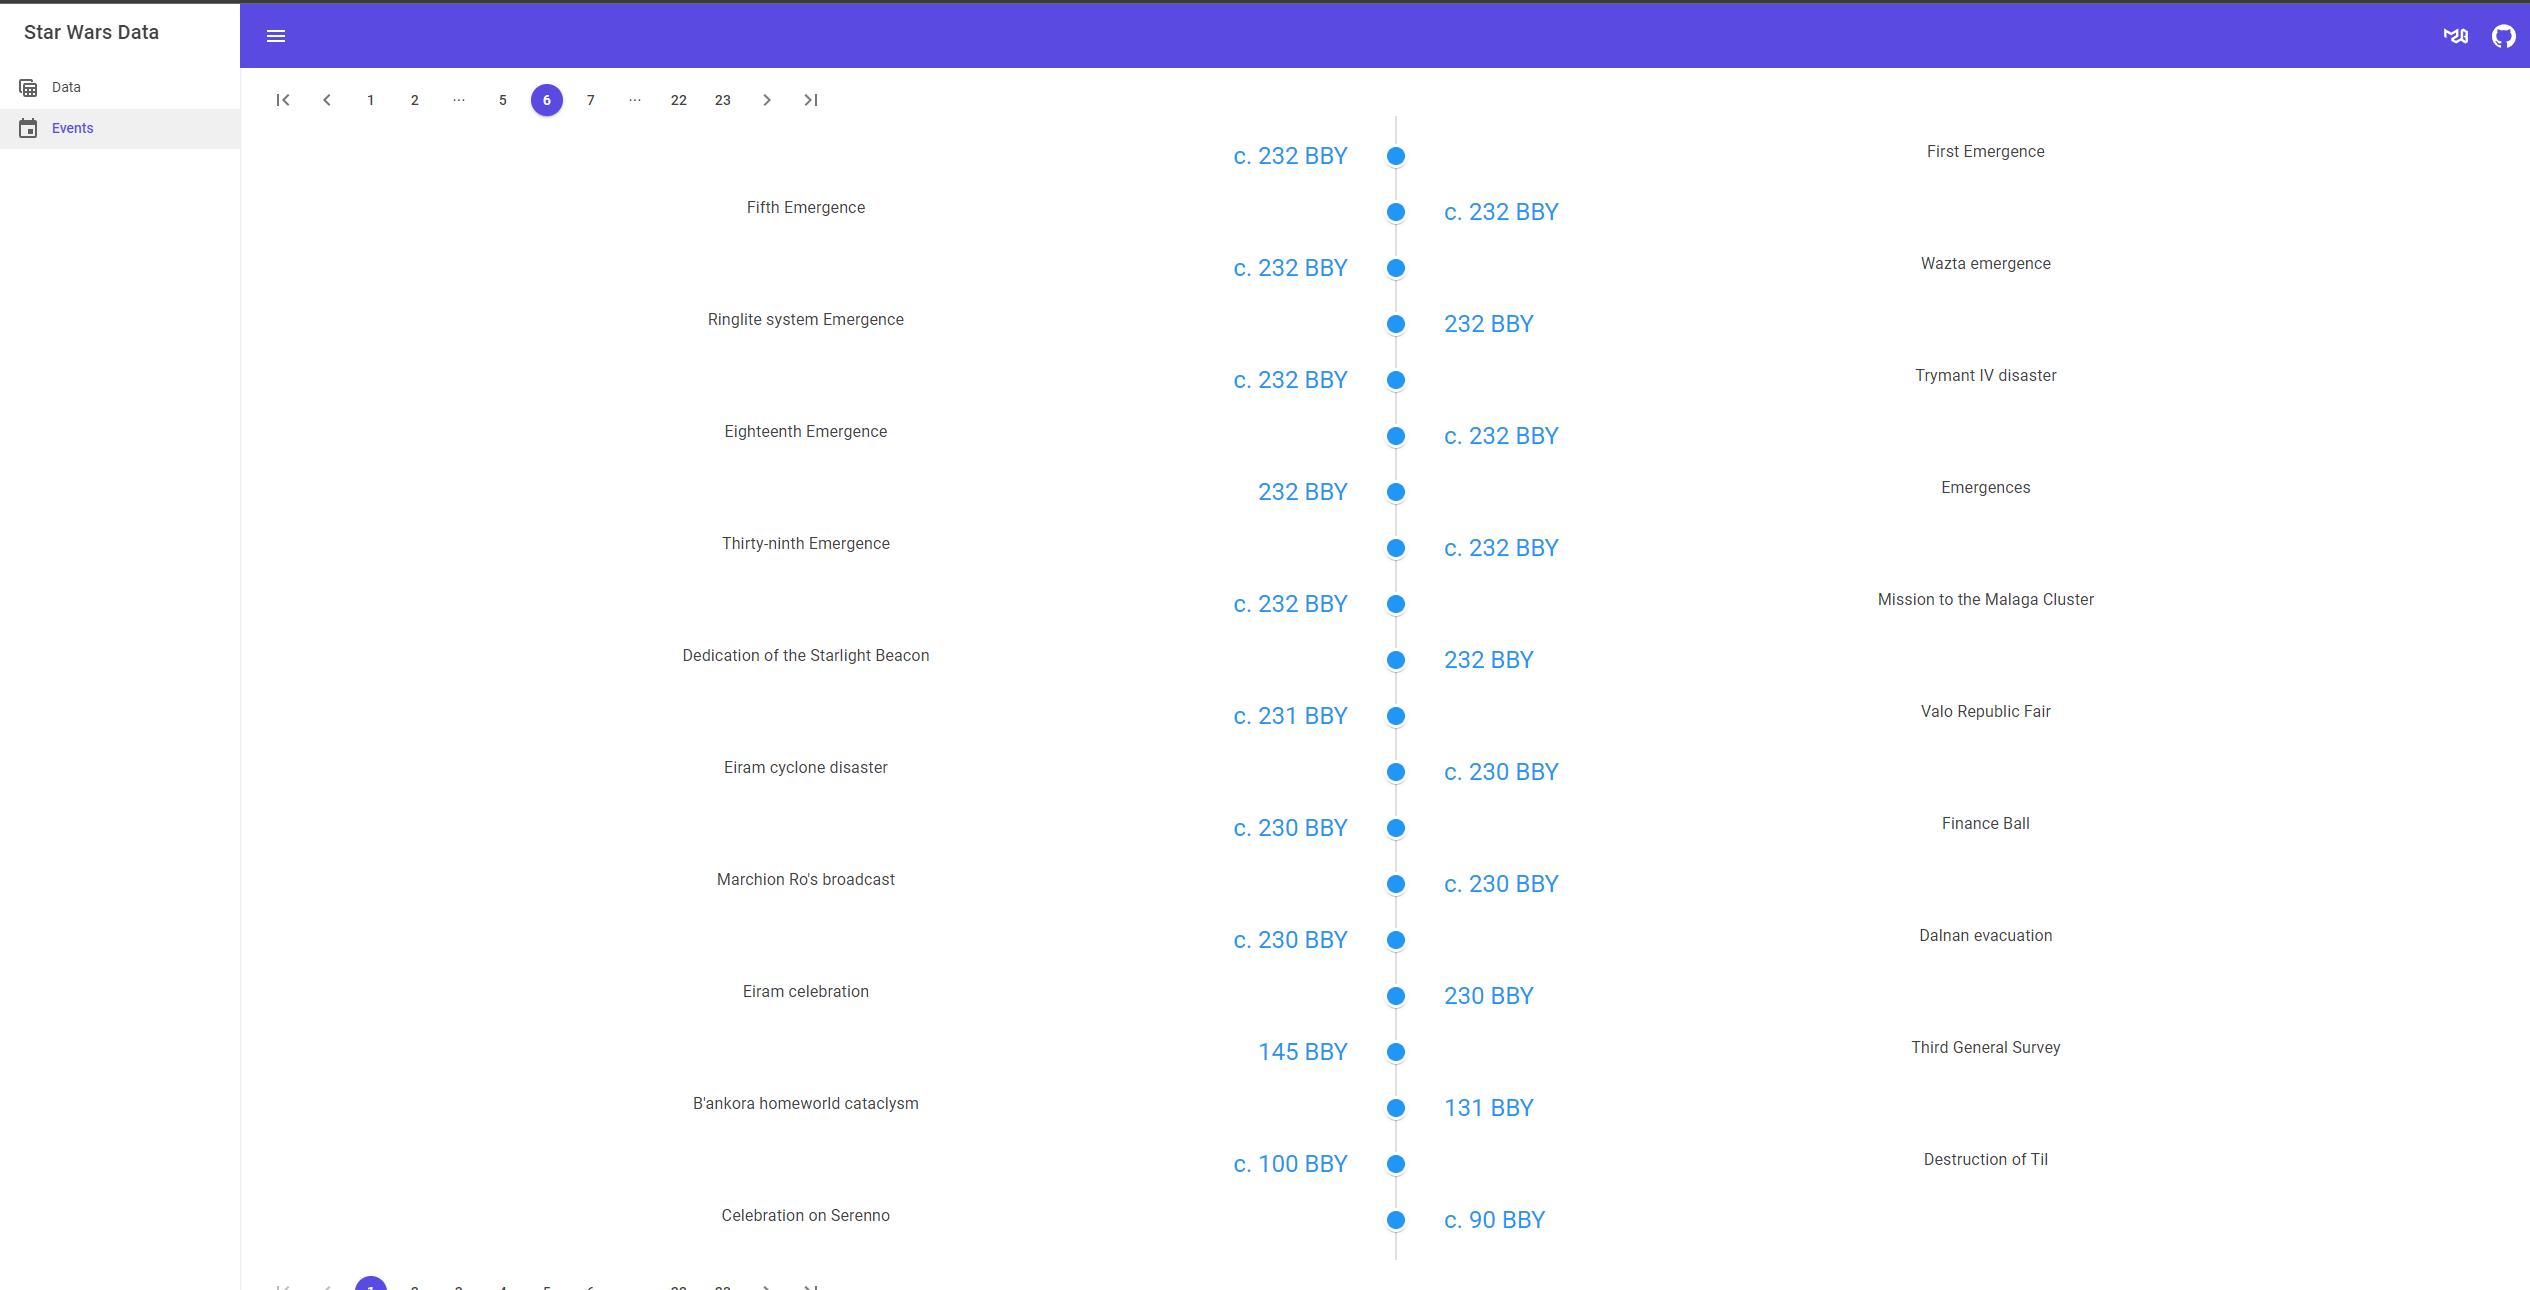
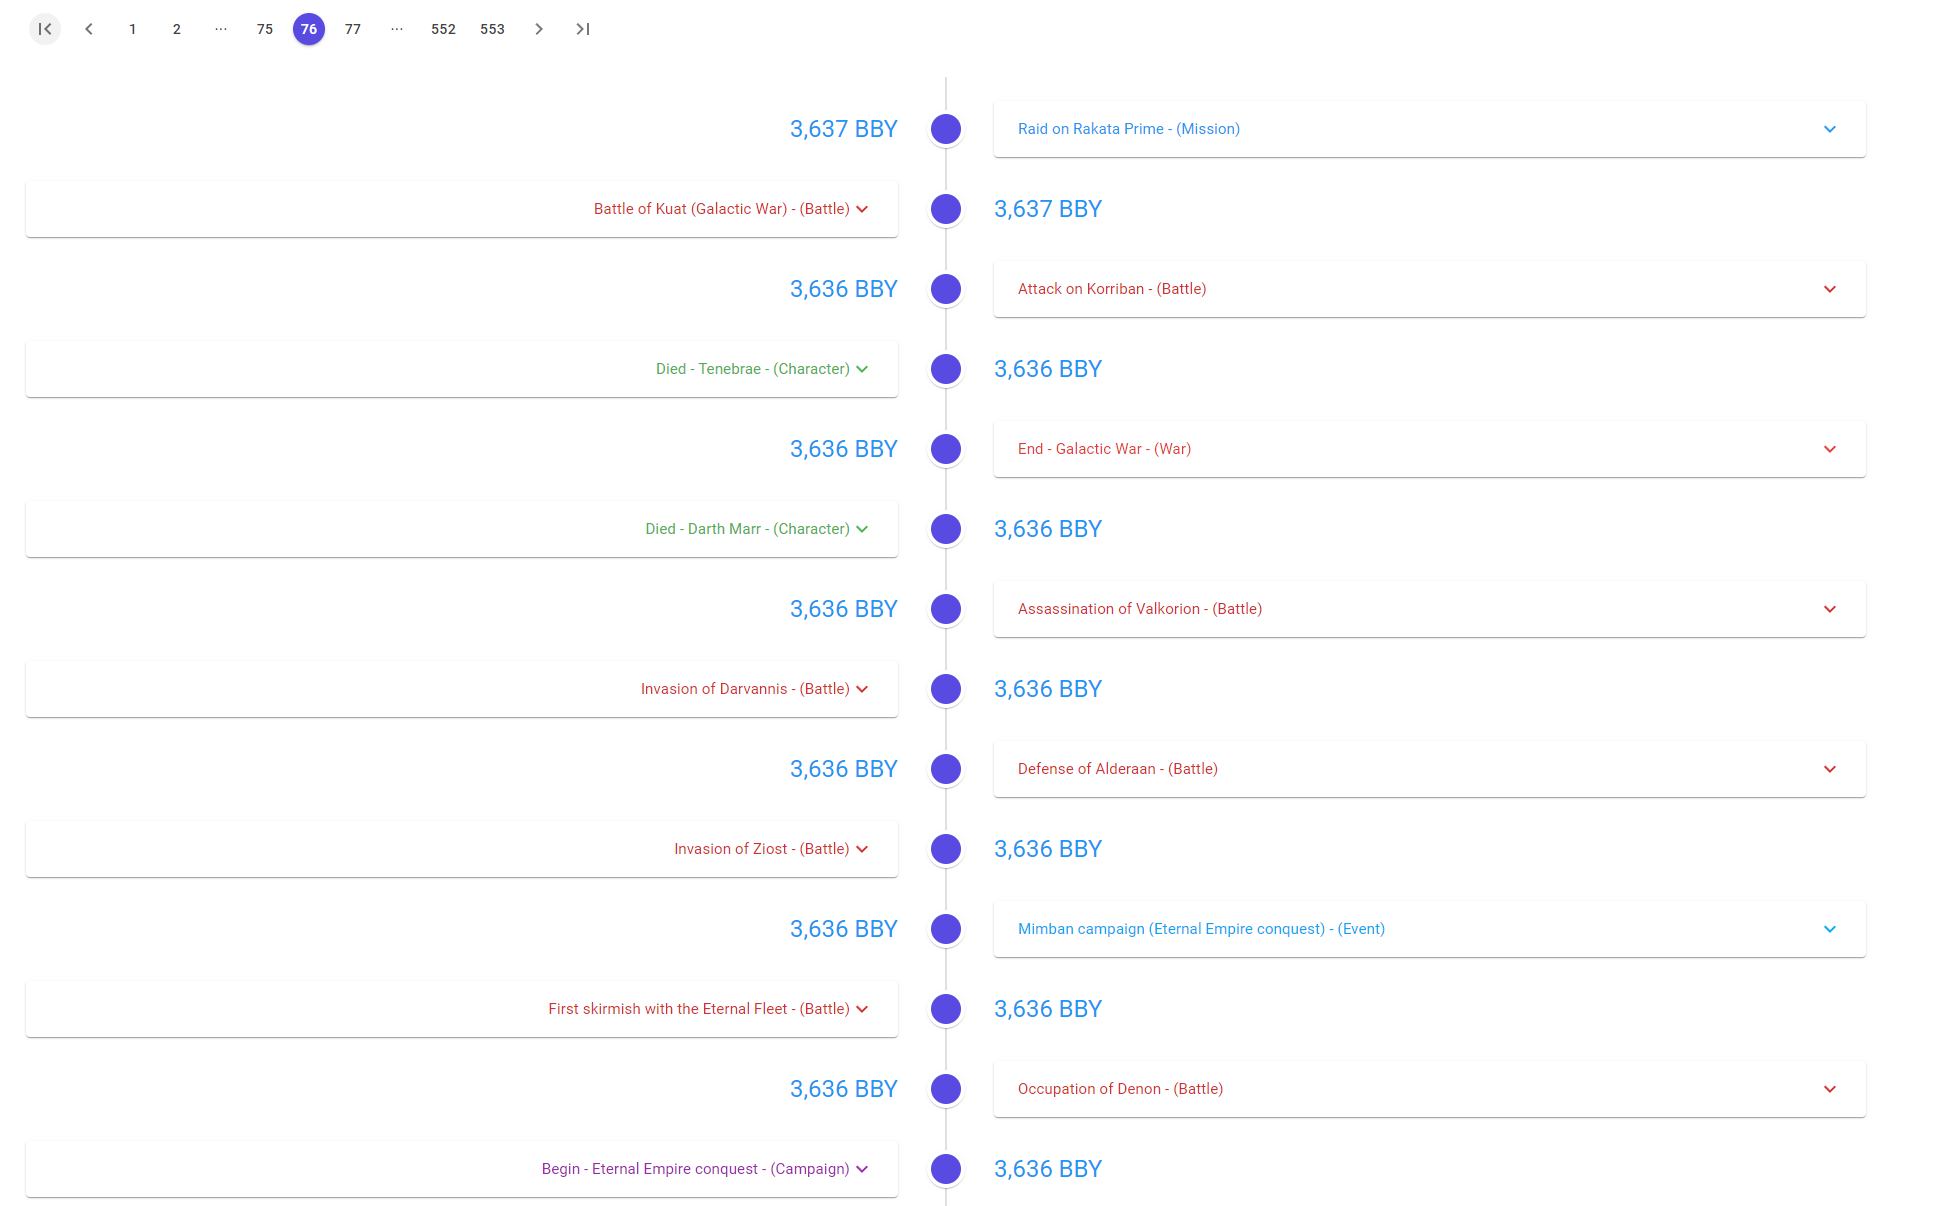
- Added better generic handling of timeline data - TODO: add event type filter for timeline page

diff --git a/src/StarWarsData.Services/RecordsService.cs b/src/StarWarsData.Services/RecordsService.cs
@@ -1,7 +1,9 @@
 using System.Collections.Concurrent;
 using System.Text.Json;
+using System.Text.RegularExpressions;
 using AngleSharp.Common;
 using Microsoft.Extensions.Logging;
+using MongoDB.Bson;
 using MongoDB.Driver;
 using StarWarsData.Models;
 
@@ -47,28 +49,89 @@ public class RecordsService
     // This is a slim cutdown record to load for the Timeline page...
     public async Task<PagedResult<TimelineEvent>> GetTimelineEvents(int page = 1, int pageSize = 20)
     {
-        var events = await _mongoDb.GetCollection<Record>("Event")
-            .Find(FilterDefinition<Record>.Empty)
+        var events = await _mongoDb.GetCollection<BsonDocument>("Event")
+            .Find(Builders<BsonDocument>.Filter.AnyEq("Data.Label", "Date"))
+            .As<Record>()
             .ToListAsync();
 
-        var wars = await _mongoDb.GetCollection<Record>("War")
-            .Find(FilterDefinition<Record>.Empty)
+        var wars = await _mongoDb.GetCollection<BsonDocument>("War")
+            .Find(Builders<BsonDocument>.Filter.AnyEq("Data.Label", "Beginning"))
+            .As<Record>()
+            .ToListAsync();
+        
+        var elections = await _mongoDb.GetCollection<BsonDocument>("Election")
+            .Find(Builders<BsonDocument>.Filter.AnyEq("Data.Label", "Date"))
+            .As<Record>()
             .ToListAsync();
 
-        var laws = await _mongoDb.GetCollection<Record>("Law")
-            .Find(FilterDefinition<Record>.Empty)
+        var laws = await _mongoDb.GetCollection<BsonDocument>("Law")
+            .Find(Builders<BsonDocument>.Filter.AnyEq("Data.Label", "Date"))
+            .As<Record>()
             .ToListAsync();
         
-        var campaigns = await _mongoDb.GetCollection<Record>("Campaign")
-            .Find(FilterDefinition<Record>.Empty)
+        var campaigns = await _mongoDb.GetCollection<BsonDocument>("Campaign")
+            .Find(Builders<BsonDocument>.Filter.AnyEq("Data.Label", "Begin"))
+            .As<Record>()
             .ToListAsync();
         
-        var battles = await _mongoDb.GetCollection<Record>("Battle")
-            .Find(FilterDefinition<Record>.Empty)
+        var battles = await _mongoDb.GetCollection<BsonDocument>("Battle")
+            .Find(Builders<BsonDocument>.Filter.AnyEq("Data.Label", "Date"))
+            .As<Record>()
             .ToListAsync();
         
-        var all = events.Concat(wars).Concat(laws).Concat(campaigns).Concat(battles);
-        var timelineEvents = all.AsParallel().SelectMany(r => _transformer.Transform(r)).ToList();
+        var duels = await _mongoDb.GetCollection<BsonDocument>("Duel")
+            .Find(Builders<BsonDocument>.Filter.AnyEq("Data.Label", "Date"))
+            .As<Record>()
+            .ToListAsync();
+        
+        var characters = await _mongoDb.GetCollection<BsonDocument>("Character")
+            .Find(Builders<BsonDocument>.Filter.AnyEq("Data.Label", "Born"))
+            .As<Record>()
+            .ToListAsync();
+        
+        var droids = await _mongoDb.GetCollection<BsonDocument>("Droid")
+            .Find(Builders<BsonDocument>.Filter.AnyEq("Data.Label", "Date created"))
+            .As<Record>()
+            .ToListAsync();
+        
+        var missions = await _mongoDb.GetCollection<BsonDocument>("Mission")
+            .Find(Builders<BsonDocument>.Filter.AnyEq("Data.Label", "Date"))
+            .As<Record>()
+            .ToListAsync();
+        
+        var lightsabers = await _mongoDb.GetCollection<BsonDocument>("Lightsaber")
+            .Find(Builders<BsonDocument>.Filter.AnyEq("Data.Label", "Date discovered"))
+            .As<Record>()
+            .ToListAsync();
+        
+        var treaties = await _mongoDb.GetCollection<BsonDocument>("Treaty")
+            .Find(Builders<BsonDocument>.Filter.AnyEq("Data.Label", "Date established"))
+            .As<Record>()
+            .ToListAsync();
+        
+        var organisations = await _mongoDb.GetCollection<BsonDocument>("Organization ")
+            .Find(Builders<BsonDocument>.Filter.AnyEq("Data.Label", "Date founded"))
+            .As<Record>()
+            .ToListAsync();
+        
+        var all = events
+            .Concat(wars)
+            .Concat(laws)
+            .Concat(campaigns)
+            .Concat(battles)
+            .Concat(elections)
+            .Concat(lightsabers)
+            .Concat(treaties)
+            .Concat(organisations)
+            .Concat(duels)
+            .Concat(missions)
+            .Concat(droids)
+            .Concat(characters);
+        
+        var timelineEvents = all
+            .AsParallel()
+            .SelectMany(r => _transformer.Transform(r))
+            .ToList();
         
         timelineEvents.Sort();
         

diff --git a/src/StarWarsData.Services/EventTransformer.cs b/src/StarWarsData.Services/EventTransformer.cs
@@ -5,12 +5,6 @@ namespace StarWarsData.Services;
 
 public class EventTransformer : RecordTransformer
 {
-    private string[] StartTerms = { "Beginning", "Start", "Begin" };
-    
-    private string[] EndTerms = { "End", "Ended" };
-
-    private string[] OnceTerms = { "Date established", "Date" };
-
     public override IEnumerable<TimelineEvent> Transform(Record r)
     {
         foreach (var data in r.Data)
@@ -20,14 +14,23 @@ public class EventTransformer : RecordTransformer
                 yield return new TimelineEvent()
                 {
                     Title = r.PageTitle,
-                    Span = OnceTerms.Contains(data.Label) ? EventSpan.Once : StartTerms.Contains(data.Label) ? EventSpan.Start : EndTerms.Contains(data.Label) ? EventSpan.End : EventSpan.Unknown,
+                    EventType = GetEventType(data),
                     Demarcation = link.Content.Contains("ABY") ? Demarcation.ABY : link.Content.Contains("BBY") ? Demarcation.BBY : Demarcation.Unset,
                     Year = ParseYear(link.Content),
                     Template = r.Template,
-                    Values = r.Data.SelectMany(r => r.Values).ToList()
+                    Values = r.Data.Where(x => !x.Label!.Equals("Titles")).SelectMany(d => d.Values).Distinct().ToList()
                 };
             }
         }
+    }
+
+    private string? GetEventType(InfoboxProperty data)
+    {
+        return data.Label switch
+        {
+            "Date" => String.Empty,
+            _ => data.Label
+        };
     }
 
     private double ParseYear(string text)

diff --git a/src/StarWarsData.Models/TimelineEvent.cs b/src/StarWarsData.Models/TimelineEvent.cs
@@ -16,7 +16,8 @@ public class TimelineEvent : IComparable<TimelineEvent>
     public double Year { get; set; }
     
     public List<string> Values { get; set; }
-    public EventSpan Span { get; set; }
+    
+    public string? EventType { get; set; }
     
     public int CompareTo(TimelineEvent? other)
     {

diff --git a/src/StarWarsData.Models/EventType.cs b/src/StarWarsData.Models/EventType.cs
@@ -1,0 +1,14 @@
+namespace StarWarsData.Models;
+
+public enum EventType
+{
+    Unknown,
+    Once,
+    Start,
+    End,
+    Born,
+    Died,
+    Created,
+    Destroyed,
+    Engineered
+}
